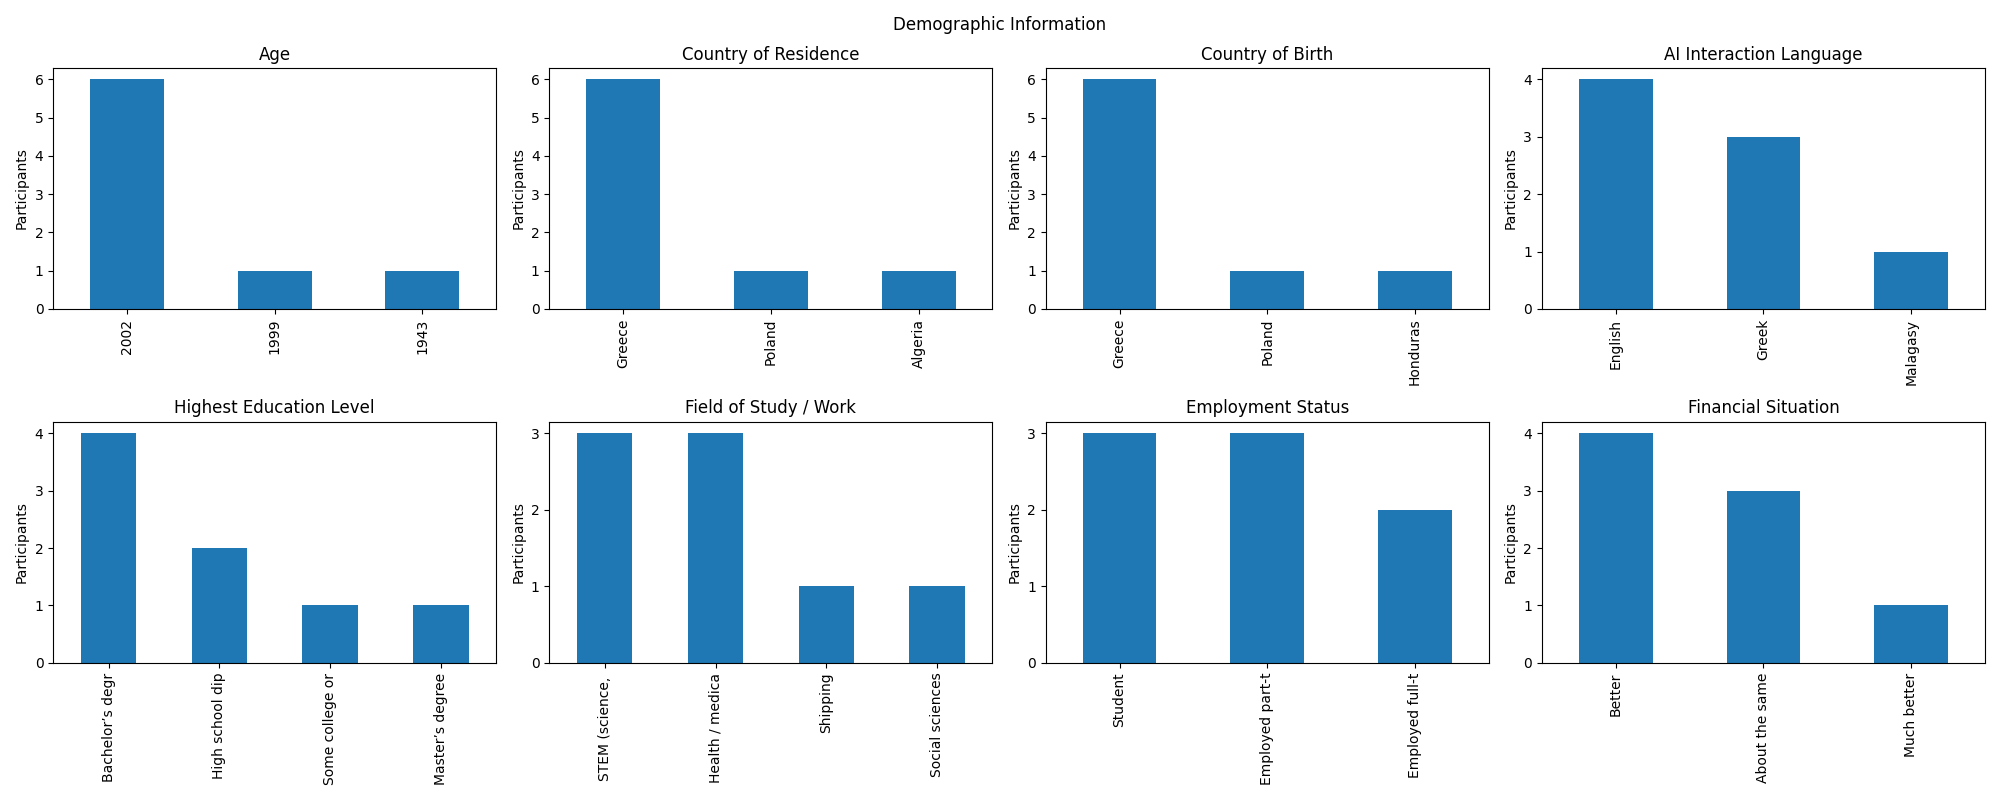
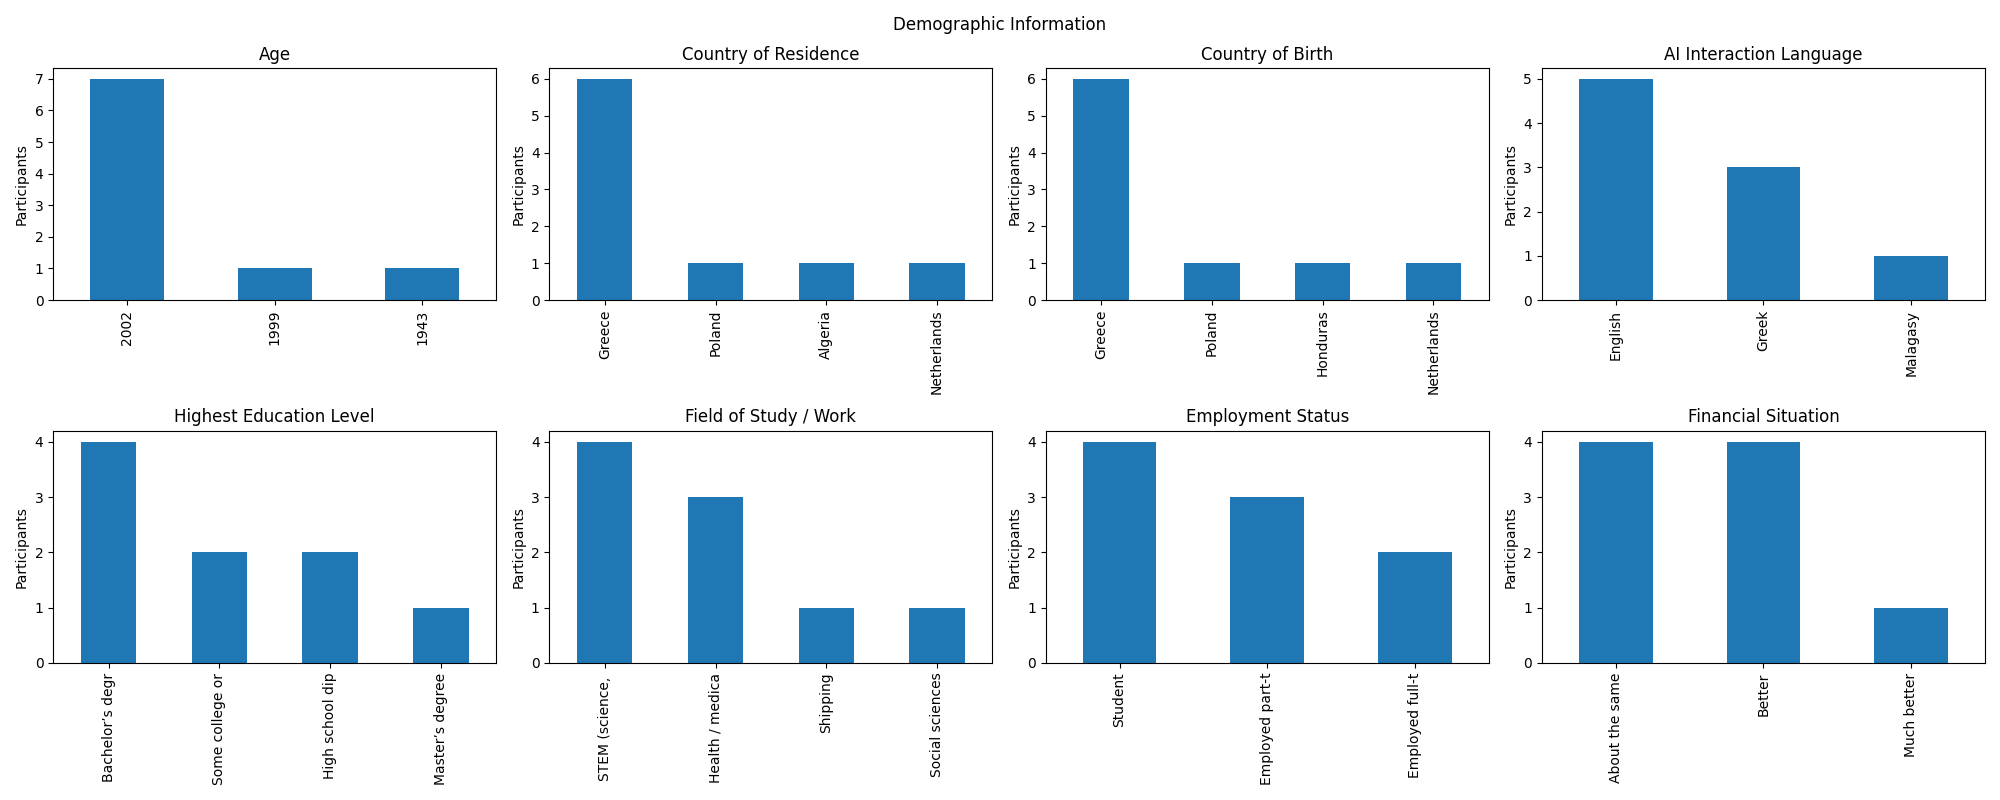
Save plots and add correlation analysis

diff --git a/pipeline.py b/pipeline.py
@@ -1,8 +1,11 @@
 import re
+import numpy as np
 import pandas as pd
+from scipy.stats import chi2_contingency
 from pathlib import Path
 import matplotlib.pyplot as plt
 from matplotlib.ticker import MaxNLocator
+import seaborn as sns
 from collections import Counter
 from sentence_transformers import SentenceTransformer
 import umap
@@ -142,11 +145,18 @@ def create_bar_plot_screen(
     # plt.show()
 
 def process_open_questions(df: pd.DataFrame, column: str) -> pd.Series:
-    print(df[column])
     df[f"{column}_clean"] = df[column].fillna("Empty").apply(preprocess_open_text)
-    print(df[f"{column}_clean"])
+
     categorize_open_ended_responses(df, f"{column}_clean")
-    print(df[f"{column}_clean_label"])
+
+    print(f"Sample categorizations for {column}:")
+    max_width = 30  
+    for o, c, l in zip(
+        df[column], 
+        df[f"{column}_clean"], 
+        df[f"{column}_clean_label"]
+    ): print(f"{str(o)[:max_width]:<{max_width}} → {str(c)[:max_width]:<{max_width}} → {str(l)[:max_width]:<{max_width}}"
+    )
 
 def preprocess_open_text(text: str):
     text = text.strip()  # Remove leading/trailing whitespace
@@ -194,7 +204,7 @@ def categorize_open_ended_responses(df: pd.DataFrame, column: str):
     df[f"{column}_label"] = df[f"{column}_cluster"].map(cluster_labels).fillna("Empty")
 
 
-filename = "export_friends_3.csv"
+filename = "export_friends_4.csv"
 force_data_cleaning = False
 output_path = Path(f"cleaned_data/{filename}")
 if output_path.exists() and not force_data_cleaning:
@@ -218,7 +228,6 @@ DEMOGRAPHIC_QUESTIONS = {
 }
 mask = (df_clean["q7"] == "Other:") & (df_clean["q7_8_text"].notna())
 df_clean.loc[mask, "q7"] = df_clean.loc[mask, "q7_8_text"]
-
 create_bar_plot_screen(
     df_clean,
     DEMOGRAPHIC_QUESTIONS,
@@ -241,7 +250,6 @@ GENERAL_AI_MC_QUESTIONS = {
     "q18_2": "Familiarity with DALLE",
     "q18_3": "Familiarity with Sora",
 }
-
 create_bar_plot_screen(
     df_clean,
     GENERAL_AI_MC_QUESTIONS,
@@ -338,3 +346,99 @@ create_bar_plot_screen(
     OPEN_QUESTIONS_LABELED,
     title=f"Categorized responses for open questions",
 )
+
+
+def cramers_v(chi2, contingency_table):
+    n = contingency_table.values.sum()
+    r, k = contingency_table.shape
+    return np.sqrt(chi2 / (n * (min(r, k) - 1)))
+
+
+def chi_square_all_pairings(
+    df: pd.DataFrame,
+    demographic_vars: list,
+    question_vars: list,
+    min_cell_count: int = 0,
+    min_group_size: int = 0
+) -> pd.DataFrame:
+    """
+    Runs Chi-square tests + Cramér's V for all demographic x question pairings.
+    
+    Parameters:
+        df: cleaned DataFrame
+        demographic_vars: list of demographic column names
+        question_vars: list of question column names
+        min_cell_count: minimum expected count per cell (for validity)
+        min_group_size: minimum category size to keep
+        
+    Returns:
+        DataFrame with test results
+    """
+    results = []
+
+    for demo in demographic_vars:
+        # Drop rare demographic categories
+        demo_counts = df[demo].value_counts()
+        valid_demo_values = demo_counts[demo_counts >= min_group_size].index
+        df_demo = df[df[demo].isin(valid_demo_values)]
+
+        for question in question_vars:
+            # Build contingency table
+            contingency = pd.crosstab(df_demo[demo], df_demo[question])
+
+            # Skip degenerate tables
+            if contingency.shape[0] < 2 or contingency.shape[1] < 2:
+                continue
+
+            # Chi-square test
+            chi2, p, dof, expected = chi2_contingency(contingency)
+
+            # Skip if expected counts too small
+            if (expected < min_cell_count).any():
+                continue
+
+            v = cramers_v(chi2, contingency)
+
+            results.append({
+                "demographic": demo,
+                "question": question,
+                "chi2": chi2,
+                "dof": dof,
+                "p_value": p,
+                "cramers_v": v,
+                "n": contingency.values.sum()
+            })
+
+    return pd.DataFrame(results)
+
+def create_heatmap_of_associations(df: pd.DataFrame):
+    heatmap_df = results_df.pivot(
+        index="demographic",
+        columns="question",
+        values="p_value"
+    )
+
+    plt.figure(figsize=(20, 8))
+    sns.heatmap(
+        heatmap_df,
+        annot=True,
+        fmt=".2f",
+        cmap="viridis"
+    )
+    title = "Associations between Demographics and AI Beliefs"
+    plt.title(title)
+    plt.tight_layout()
+    plt.savefig(f"plots/{title.replace(' ', '_').lower()}.png")
+    print(f"Saved plot for {title}")
+    # plt.show()
+
+DEMOGRAPHIC_COLS = list(DEMOGRAPHIC_QUESTIONS.keys())
+
+ALL_COLS = list((GENERAL_AI_MC_QUESTIONS | CHATGPT_MC_QUESTIONS | DALLE_MC_QUESTIONS | SORA_MC_QUESTIONS | OPEN_QUESTIONS_LABELED).keys())
+results_df = chi_square_all_pairings(
+    df_clean,
+    demographic_vars=DEMOGRAPHIC_COLS,
+    question_vars=ALL_COLS
+)
+print(results_df.sort_values("p_value").head(10))
+create_heatmap_of_associations(results_df)
